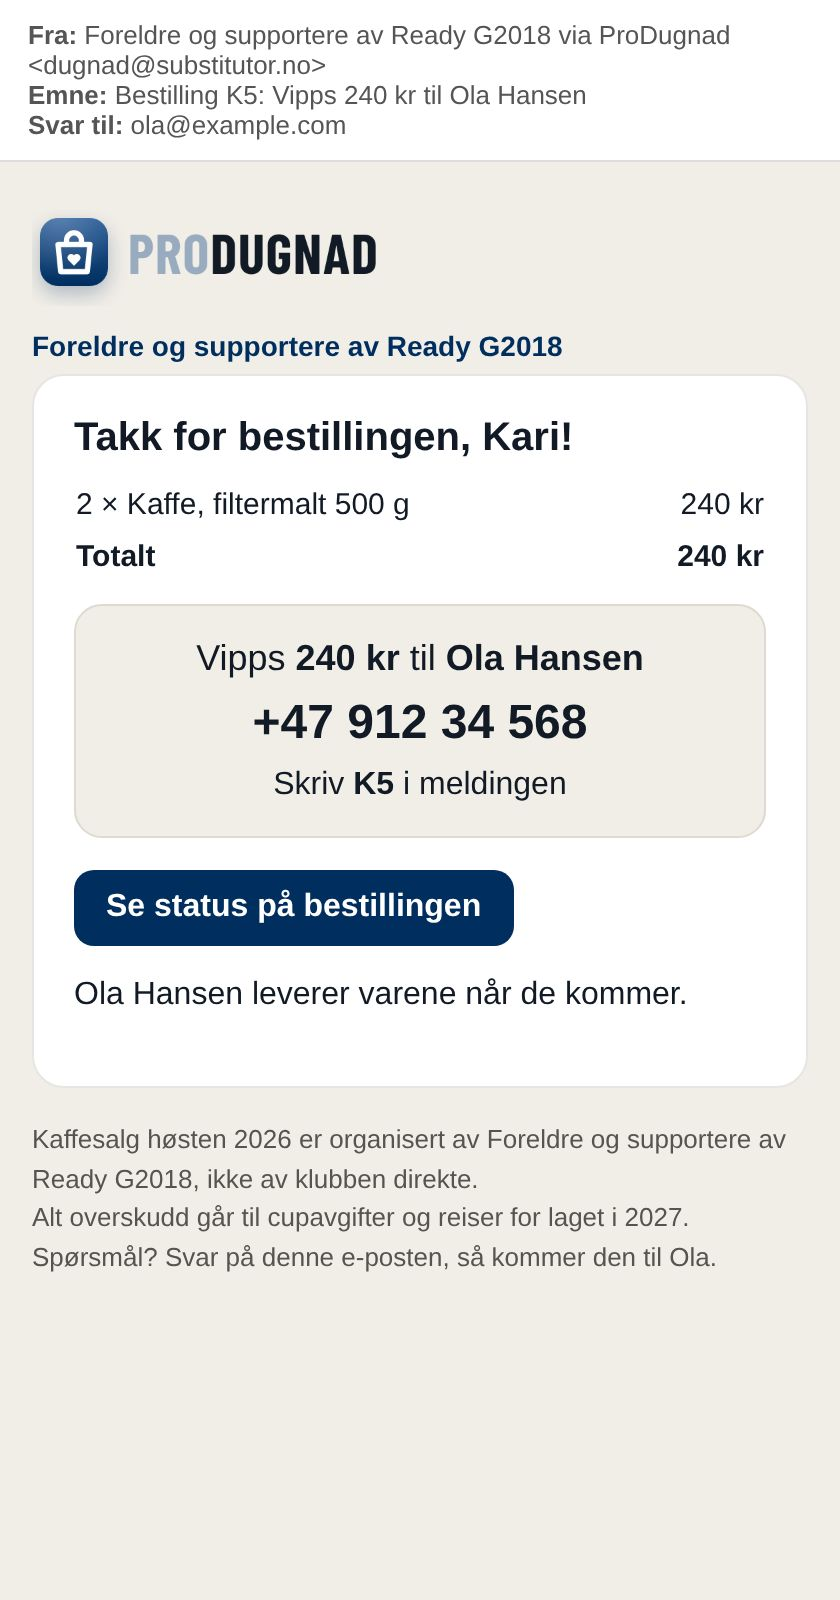
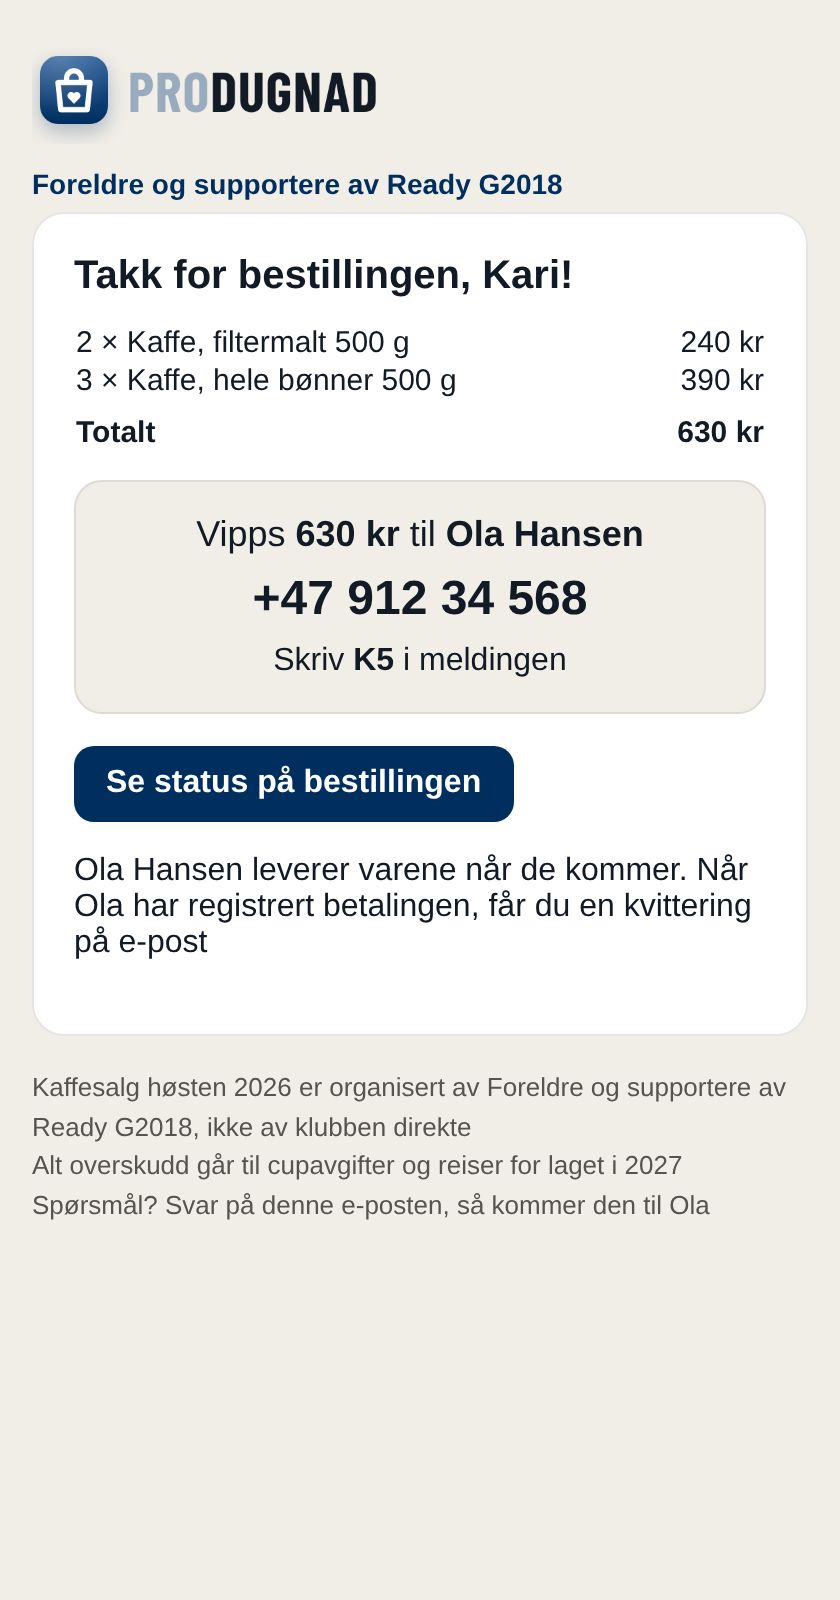
Docs: receipts (screenshots, README pages and emails, plan log)
Also fixes the broken screenshot link for giving extra stock to a friend
(file renamed from «kunde» to «venn») and the README login row (code only).

diff --git a/docs/tekster.md b/docs/tekster.md
@@ -4,7 +4,7 @@ Every text in the app, the emails and the link previews, as of 22 November 2026,
 
 ## A. Friend order page (`/k/…`), the page most people see
 
-<p><a href="screenshots/a-bestillingsside.jpg"><img src="screenshots/a-bestillingsside.jpg" width="230" alt="Bestillingssiden" title="Bestillingssiden"></a> <a href="screenshots/a-din-bestilling-tidligere.jpg"><img src="screenshots/a-din-bestilling-tidligere.jpg" width="230" alt="Tidligere bestilling på samme telefon (A19)" title="Tidligere bestilling på samme telefon (A19)"></a></p>
+<p><a href="screenshots/a-bestillingsside.jpg"><img src="screenshots/a-bestillingsside.jpg" width="230" alt="Bestillingssiden" title="Bestillingssiden"></a> <a href="screenshots/a-din-bestilling-tidligere.jpg"><img src="screenshots/a-din-bestilling-tidligere.jpg" width="230" alt="Tidligere bestilling på samme telefon (A19)" title="Tidligere bestilling på samme telefon (A19)"></a> <a href="screenshots/a-kvittering-firma.jpg"><img src="screenshots/a-kvittering-firma.jpg" width="230" alt="Kvittering til firma (A22)" title="Kvittering til firma (A22)"></a></p>
 
 <sub>Bestillingssiden · Tidligere bestilling på samme telefon (A19)</sub>
 
@@ -48,9 +48,9 @@ Every text in the app, the emails and the link previews, as of 22 November 2026,
 
 ## C. Order status page (`/status/…`)
 
-<p><a href="screenshots/c-status.jpg"><img src="screenshots/c-status.jpg" width="230" alt="Statussiden" title="Statussiden"></a></p>
+<p><a href="screenshots/c-status.jpg"><img src="screenshots/c-status.jpg" width="230" alt="Statussiden" title="Statussiden"></a> <a href="screenshots/c-status-betalt.jpg"><img src="screenshots/c-status-betalt.jpg" width="230" alt="Statussiden når bestillingen er betalt (C9)" title="Statussiden når bestillingen er betalt (C9)"></a> <a href="screenshots/c-kvittering.jpg"><img src="screenshots/c-kvittering.jpg" width="230" alt="Kvitteringen (C10)" title="Kvitteringen (C10)"></a></p>
 
-<sub>Statussiden</sub>
+<sub>Statussiden · Betalt, med lenke til kvitteringen · Kvitteringen</sub>
 
 | # | Where | Text |
 |---|---|---|
@@ -264,7 +264,7 @@ Every text in the app, the emails and the link previews, as of 22 November 2026,
 
 ## K. Emails
 
-<p><a href="screenshots/k-epost-innlogging.jpg"><img src="screenshots/k-epost-innlogging.jpg" width="230" alt="K1 Innlogging" title="K1 Innlogging"></a> <a href="screenshots/k-epost-friend-order.jpg"><img src="screenshots/k-epost-friend-order.jpg" width="230" alt="K2 Bestilling" title="K2 Bestilling"></a> <a href="screenshots/k-epost-friend-paid.jpg"><img src="screenshots/k-epost-friend-paid.jpg" width="230" alt="K3 Betalt" title="K3 Betalt"></a> <a href="screenshots/k-epost-parent-payment.jpg"><img src="screenshots/k-epost-parent-payment.jpg" width="230" alt="K4 Betaling registrert" title="K4 Betaling registrert"></a> <a href="screenshots/k-epost-goods-sent.jpg"><img src="screenshots/k-epost-goods-sent.jpg" width="230" alt="K5 Varer sendt" title="K5 Varer sendt"></a> <a href="screenshots/k-epost-digest.jpg"><img src="screenshots/k-epost-digest.jpg" width="230" alt="K6 Daglig oppsummering" title="K6 Daglig oppsummering"></a> <a href="screenshots/k-epost-closing.jpg"><img src="screenshots/k-epost-closing.jpg" width="230" alt="K9 Avslutning" title="K9 Avslutning"></a> <a href="screenshots/k-epost-admin-invite.jpg"><img src="screenshots/k-epost-admin-invite.jpg" width="230" alt="K10 Admin-invitasjon" title="K10 Admin-invitasjon"></a></p>
+<p><a href="screenshots/k-epost-innlogging.jpg"><img src="screenshots/k-epost-innlogging.jpg" width="230" alt="K1 Innlogging" title="K1 Innlogging"></a> <a href="screenshots/k-epost-friend-order.jpg"><img src="screenshots/k-epost-friend-order.jpg" width="230" alt="K2 Bestilling" title="K2 Bestilling"></a> <a href="screenshots/k-epost-friend-paid.jpg"><img src="screenshots/k-epost-friend-paid.jpg" width="230" alt="K3 Kvittering" title="K3 Kvittering"></a> <a href="screenshots/k-epost-parent-payment.jpg"><img src="screenshots/k-epost-parent-payment.jpg" width="230" alt="K4 Betaling registrert" title="K4 Betaling registrert"></a> <a href="screenshots/k-epost-goods-sent.jpg"><img src="screenshots/k-epost-goods-sent.jpg" width="230" alt="K5 Varer sendt" title="K5 Varer sendt"></a> <a href="screenshots/k-epost-digest.jpg"><img src="screenshots/k-epost-digest.jpg" width="230" alt="K6 Daglig oppsummering" title="K6 Daglig oppsummering"></a> <a href="screenshots/k-epost-closing.jpg"><img src="screenshots/k-epost-closing.jpg" width="230" alt="K9 Avslutning" title="K9 Avslutning"></a> <a href="screenshots/k-epost-admin-invite.jpg"><img src="screenshots/k-epost-admin-invite.jpg" width="230" alt="K10 Admin-invitasjon" title="K10 Admin-invitasjon"></a></p>
 
 <sub>K1 Innlogging · K2 Bestilling · K3 Betalt · K4 Betaling registrert · K5 Varer sendt · K6 Daglig oppsummering · K9 Avslutning · K10 Admin-invitasjon</sub>
 

diff --git a/docs/plan.md b/docs/plan.md
@@ -85,7 +85,7 @@ Also built early (phase 2 items that were cheap): lock/unlock and close, supplie
 - 22 Nov 2026: sellers without login (the owner: «some parents don't want to sign up with their email addresses but still just want to buy a certain amount of products»). Planned with Fable. Admins add a child on the Foreldre tab («+ Legg til barn»: child's first name, parent's name and phone optional); it is a `campaign_parents` row with `parent_user_id` null and `offline_name`/`offline_phone` (migration `20261122000002`, RPC `admin_save_seller`, admins only). It gets a D-code; admins enter its orders (new ones start as Egen, the owner's choice) and payments with the normal tools; it counts in all totals, packing lists and the supplier order. Its order link takes no orders (the owner's choice: the parent would never see them): the page shows closed and a trigger refuses friend orders. No emails (all email SQL joins profiles). Admins may now also add/change orders on any parent's page after the lock (the database already allowed it). Not built: letting such a parent take over the row by logging in later (see Ideas)
 - 22 Nov 2026: «Beskjed om oppgjør» in Oppsett → Betaling fra foreldre (`campaigns.payment_note`, migration `20261122000003`): the admins' own note above what parents owe, e.g. when and where the products are handed out; replaces the fixed sentence, which is the default; empty = no note
 - 22 Nov 2026: the admins' packing list (Pakkeliste for alle foreldre) has Barn / Foreldre like the Foreldre tab, Barn first: each bag shows the child's name (admins' label, capitalised) then the parent, sorted by child so siblings' bags sit together. Still one bag per parent. Each product on its own line in a bag (the owner's wish)
-- 25 Nov 2026: receipts (the owner: the confirmation email should look like a receipt). The «paid» email (K3) is now a receipt: KVITTERING, order code and date paid, seller (parent's name, phone, «Dugnad til inntekt for {team}»), buyer, lines with unit price, total, «Betalt med Vipps {date}», «Ikke MVA-pliktig (privatsalg / dugnad)». No signature (an email can't carry one) and no payment method stored (always Vipps). The same receipt is on `/kvittering/<status token>` with a print / save as PDF button, linked from the status page once paid, so friends without email get one too. Friends may give a company name for the receipt when ordering (`orders.receipt_name`, max 80, the owner's choice; cleared by «Slett vennenes navn»). Migration `20261125000001_receipts`. Plain-text emails now separate table cells
+- 25 Nov 2026: receipts (the owner: the confirmation email should look like a receipt). The «paid» email (K3) is now a receipt: KVITTERING, order code and date paid, seller (parent's name, phone, «Dugnad til inntekt for {team}»), buyer, lines with unit price, total, «Betalt med Vipps {date}», «Ikke MVA-pliktig (privatsalg / dugnad)». No signature (an email can't carry one) and no payment method stored (always Vipps). The same receipt is on `/kvittering/<status token>` with a print / save as PDF button, linked from the status page once paid, so friends without email get one too. Friends may give a company name for the receipt when ordering (`orders.receipt_name`, max 80, the owner's choice; cleared by «Slett vennenes navn»). Migration `20261125000001_receipts`. Plain-text emails now separate table cells. Live the same evening (db push, send-emails + daily-digest deployed, git push). Orders marked paid before this got the old «paid» email; their receipt is on the status page
 - **Next:** the owner's real test run on a phone with the live campaign (join, order as a friend, tick paid, register payment, lock, close). Owner: set Supabase Auth → Rate Limits → emails per hour to 10.
 
 ## Ideas (not built; may never be built)

diff --git a/README.md b/README.md
@@ -47,9 +47,10 @@ GitHub Actions runs all of them on every push.
 | Address | Who | What |
 |---|---|---|
 | `/k/<code>` | Friends | Order through a parent's link; Vipps instructions afterwards |
-| `/status/<token>` | Friends | Status of one order |
+| `/status/<token>` | Friends | Status of one order; «Se kvittering» once paid |
+| `/kvittering/<token>` | Friends | Receipt for a paid order (seller, buyer or company, lines, date paid, no VAT note), print or save as PDF |
 | `/bli-med/<code>` | Parents | Sign up as a seller in a campaign |
-| `/logg-inn` | Parents, admins | Login with a code from email (or the link in the email) |
+| `/logg-inn` | Parents, admins | Login with a code from email (code only, no link) |
 | `/forelder/<id>` | Parents | Money to the team via them, their link with share texts, link preview and QR, amount owed with Vipps, orders |
 | `/forelder/<id>/ny`, `/ordre/<id>`, `/fra-ekstra/<id>` | Parents | New or edit order (Venn / Egen / Ekstra), give extra stock to a friend |
 | `/pakkeliste/<id>` | Parents, admins | Packing list per friend, ticked on the phone |
@@ -60,4 +61,4 @@ GitHub Actions runs all of them on every push.
 
 ## Emails
 
-All in Norwegian, from `dugnad@substitutor.no` via Resend: login code (Supabase template), friend's order confirmation and "paid" (opt-in), payment registered, goods sent, daily digest at 20:00 (only on days with new orders), closing message, admin invitation. They go through a queue (`email_outbox`): max 90 a day, parents' emails first.
+All in Norwegian, from `dugnad@substitutor.no` via Resend: login code (Supabase template), friend's order confirmation and receipt when paid (opt-in), payment registered, goods sent, daily digest at 20:00 (only on days with new orders), closing message, admin invitation. They go through a queue (`email_outbox`): max 90 a day, parents' emails first.
